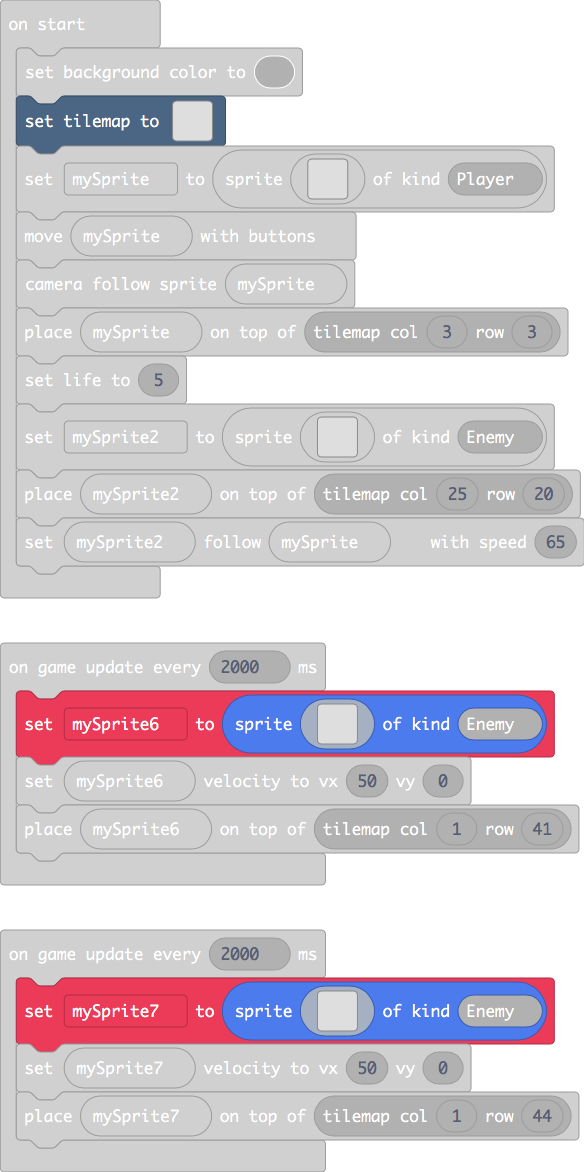
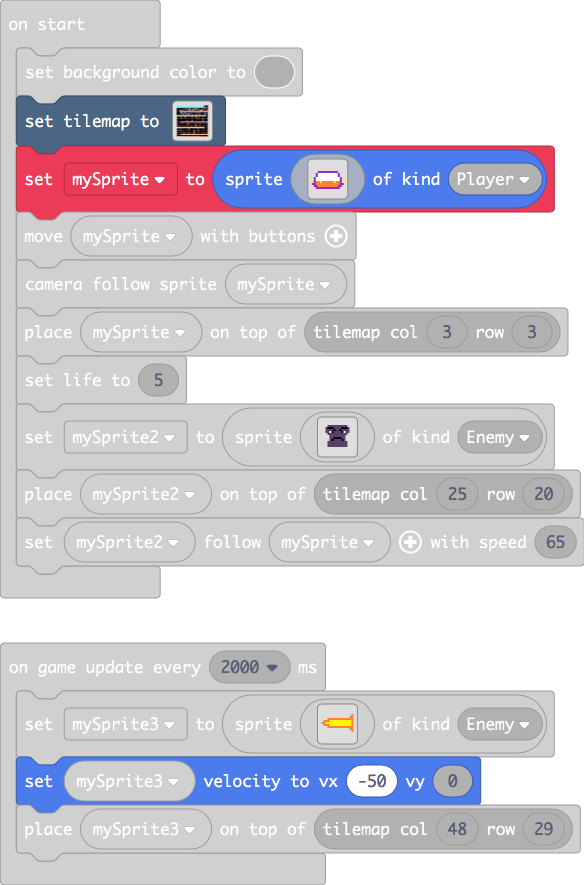
done base after deltedprogress :)

diff --git a/main.ts b/main.ts
@@ -121,7 +121,7 @@ let projectile: Sprite = null
 let mySprite: Sprite = null
 scene.setBackgroundColor(15)
 tiles.setTilemap(tiles.createTilemap(
[2 lines of base64/hex data omitted]
             img`
 . . . . . . . . . . . . . . . . . . . . . . . . . . . . . . . . . . . . . . . . . . . 2 2 2 2 2 2 2 
 . . . . . . . . . . . . . . . . . . . . . . . . . . . . . . . . . . . . . . . . . . . . . . . . . . 
@@ -139,7 +139,7 @@ tiles.setTilemap(tiles.createTilemap(
 . . . . . . . 2 . . 2 . . 2 . . 2 . . 2 . . 2 . . 2 . . . . . . . . 2 . . 2 . . . . . . 2 2 . . . 2 
 . . . . . . . 2 . . 2 . . 2 . . . . . 2 . . . . . 2 . . . . 2 . . . 2 . . 2 . . . . . . 2 2 . . . 2 
 . . . . . . . . . . 2 . . . . . 2 . . 2 . . 2 . . . . . . . 2 . . . . . . 2 . . . . . . . . . . . 2 
-2 2 2 2 2 . . . . . 2 . 2 2 . . 2 . . 2 . . 2 . 2 2 2 . . . . . . 2 2 2 . 2 . . . . . 2 2 2 . . . 2 
+2 2 2 2 2 . . . . . 2 . . 2 . . 2 . . 2 . . 2 . . 2 2 . . . . . . . 2 . . 2 . . . . . . 2 2 . . . 2 
 2 2 2 2 2 2 2 2 2 2 2 2 2 2 2 2 2 2 2 2 2 2 2 2 2 2 2 2 2 2 2 2 2 2 2 2 2 2 2 2 2 2 2 2 2 2 . . . 2 
 2 . . . . . . 2 . . . . . 2 . . . . . . . . . . 2 . . . . . 2 . . . 2 . . . . . . . . . . . . . . 2 
 2 . . . . . . 2 . . . . . 2 . . . . . . . . . . 2 . . . . . 2 . . . 2 . . . . . . . . . . . . . . 2 
@@ -158,7 +158,7 @@ tiles.setTilemap(tiles.createTilemap(
 . . . . . . . . . . . . . . . . . . . . . . . . . . . . . . . . . . . . . . . . . . . . . . . . . 2 
 . . . . . . . . . . . . . . . . . . . . . . . . . . . . . . . . . . . . . . . . . . . . . . . . . 2 
 2 . . . . . . . . . . . . . . . . . . . . . . . . . . . . . . . . . . . . . . . . . . 2 . . . . . 2 
-2 2 2 2 2 2 2 2 2 2 2 2 2 2 2 2 2 2 2 2 2 2 2 2 2 2 2 2 2 2 2 2 2 2 2 2 2 2 2 2 2 2 2 2 . . . . . 2 
+2 2 2 2 2 2 . 2 2 2 2 2 2 2 2 2 2 2 2 2 2 2 2 2 2 2 2 2 2 2 2 2 2 2 2 2 2 2 2 2 2 2 2 2 . . . . . 2 
 2 . . . . . . . . . . . . . . . . . . . . . . . . . . . . . . . . . . . . . . . . . . 2 . . . . . 2 
 2 . . . . . . . . . . . . . . . . . . . . . . . . . . . . . . . . . . . . . . . . . . . . . . . . . 
 2 . . . . . . . . . . . . . . . . . . . . . . . . . . . . . . . . . . . . . . . . . . . . . . . . . 
@@ -238,7 +238,7 @@ game.onUpdateInterval(2000, function () {
 . . . . . . . . . . . . . . . . 
 . . . . . . . . . . . . . . . . 
 `, SpriteKind.Enemy)
-    mySprite3.setVelocity(-73, 0)
+    mySprite3.setVelocity(-50, 0)
     tiles.placeOnTile(mySprite3, tiles.getTileLocation(48, 29))
 })
 game.onUpdateInterval(2000, function () {
